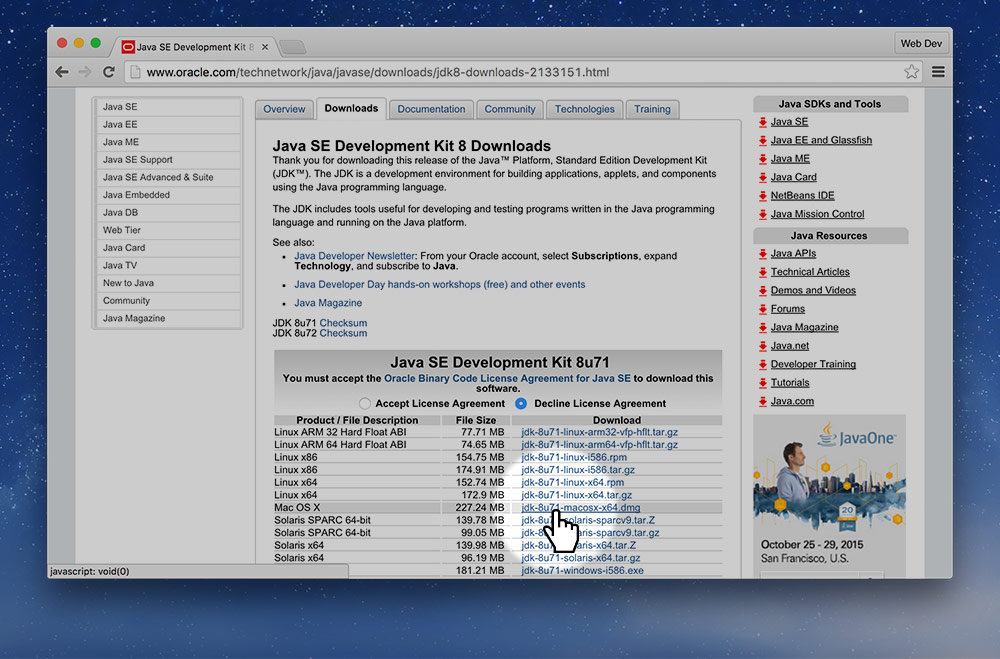
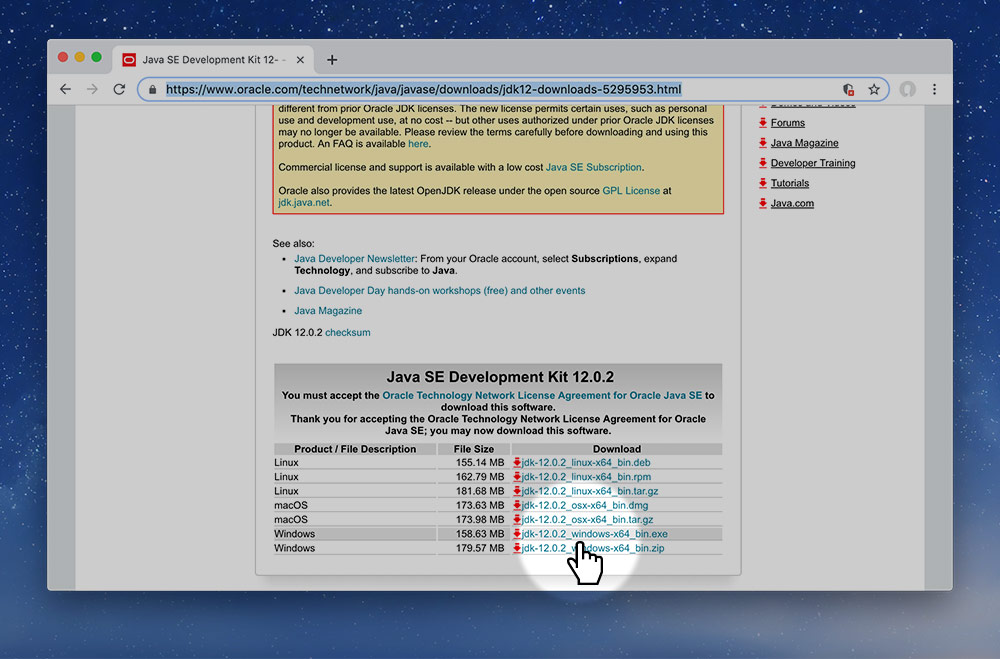
Update the Java screenshots & links

Changed region(s): [[0.031, 0.0303, 0.961, 0.9105]]

diff --git a/docs/install-java-developer-kit-mac.md b/docs/install-java-developer-kit-mac.md
@@ -4,7 +4,7 @@
 
 **The Java Development Kit allows Markbot to run the HTML validator, CSS validator & and the language checker.**
 
-Go to the JDK download page on [Oracle’s Java Downloads](http://www.oracle.com/technetwork/java/javase/downloads/jdk8-downloads-2133151.html) website.
+Go to the JDK download page on [Oracle’s Java Downloads](https://www.oracle.com/technetwork/java/javase/downloads/jdk12-downloads-5295953.html) website.
 
 ![](images/jdk-license.jpg)
 

diff --git a/docs/install-java-developer-kit-win.md b/docs/install-java-developer-kit-win.md
@@ -4,7 +4,7 @@
 
 **The Java Development Kit allows Markbot to run the HTML validator, CSS validator & and the language checker.**
 
-Go to the JDK download page on [Oracle’s Java Downloads](http://www.oracle.com/technetwork/java/javase/downloads/jdk8-downloads-2133151.html) website.
+Go to the JDK download page on [Oracle’s Java Downloads](https://www.oracle.com/technetwork/java/javase/downloads/jdk12-downloads-5295953.html) website.
 
 ![](images/jdk-license.jpg)
 
